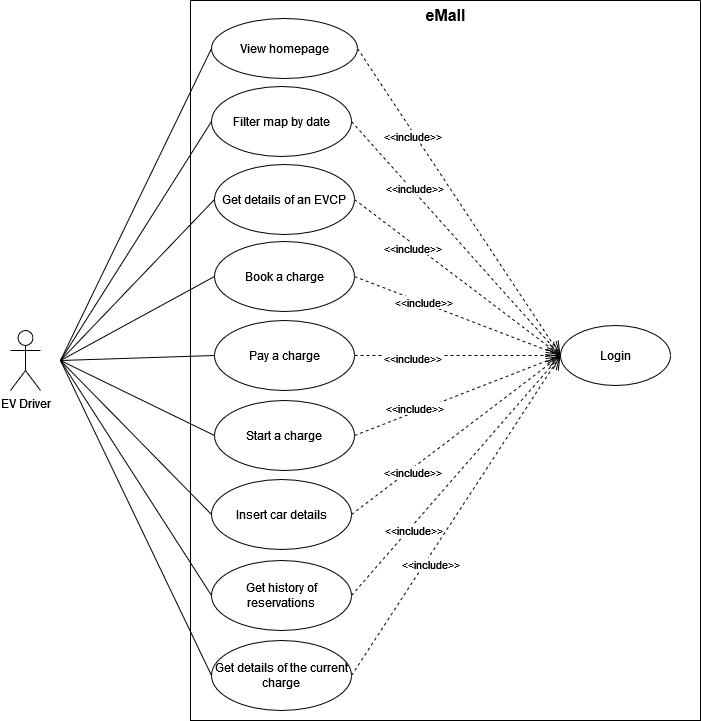
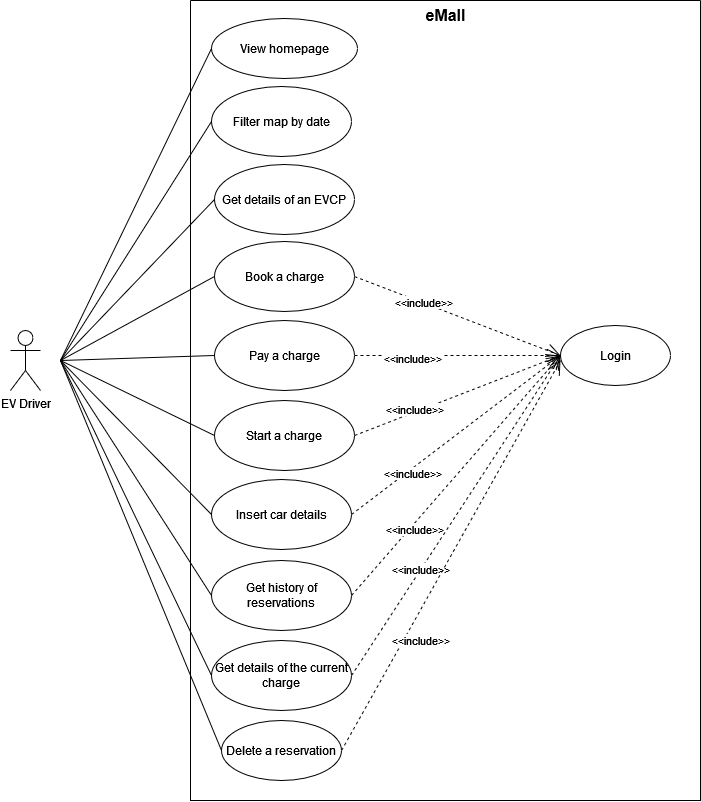
use cases

diff --git a/RASD/section/specific_requirements.tex b/RASD/section/specific_requirements.tex
@@ -42,7 +42,7 @@ Nothing here
 
 \begin{figure}[H]
     \centering
-    \includegraphics[scale=0.6]{src/use_case_diagram/cpo.png}
+    \includegraphics[scale=0.5]{src/use_case_diagram/cpo.png}
 \end{figure}
 
 \begin{figure}[H]
@@ -50,31 +50,176 @@ Nothing here
     \includegraphics[scale=0.6]{src/use_case_diagram/driver.png}
 \end{figure}
 
-\paragraph*{Use Case: EV driver Registration}
-
 \usecase
-{Name}
-{Actor}
-{Entry condition}
+{EV driver registration}
+{EV driver}
+{EV driver clicks 'Sign Up' in the application homepage}
 {
     \begin{enumerate}
-        \item First event flow
-        \item Second event flow etc.
+        \item The system sends user the registration form
+        \item Driver enters name, surname, birth date, telephone number and password. Then submits the data upon reading and accepting the Privacy Policy and the Terms of Service
+        \item The system sends a SMS to driver through an API containing a secret code
+        \item The driver submits the received verification code
+        \item The system verifies the code and displays a success message
     \end{enumerate}
 }
-{Exit condition}
+{A new EV driver account is created}
 {
     \begin{itemize}
-        \item An exception
-        \item Another exception
+        \item A required registration field is missing when the form is submitted
+        \item A wrong verification code is submitted
+        \item The timeout of verification expires
     \end{itemize}
 }
 {
-    Notes: eg. how exception are treated
+    All the exception are treated the same: the system will notify user with a human-readable message and the user is redirected to the homepage
 }
 
-\paragraph*{Use Case: EV driver Login}
-and so on
+\usecase
+{CPO registration} % name
+{CPO} % actor
+{CPO clicks 'Sign Up' in the business dedicated application homepage} % entry condition
+{ % event flow
+    \begin{enumerate}
+        \item The system sends operator the registration form
+        \item Operator enters company name, VAT, IBAN, and password. Then submits the data upon reading and accepting the Privacy Policy and the Terms of Service
+        \item The system processes the provided information and display a success message
+    \end{enumerate}
+}
+{A new operator account is created} % exit condition
+{ % exceptions
+    \begin{itemize}
+        \item A required registration field is missing when the form is submitted
+        \item The operator is not associated to the given VAT
+    \end{itemize}
+}
+{ % notes
+    All the exception are treated the same: the system will notify operator with a human-readable message and the operator is redirected to the homepage
+}
+
+\usecase
+{Check energy in batteries} % name
+{CPO} % actor
+{Authenticated CPO is in "Monitor status of EVCP" tab} % entry condition
+{ % event flow
+    \begin{enumerate}
+        \item The operator choose a specific EVCP and clicks 'check energy in batteries'
+        \item The system shows the battery status of the selected EVCP, if any
+    \end{enumerate}
+}
+{The 'Check energy in batteries' chart is shown} % exit condition
+{ % exceptions
+    \begin{itemize}
+        \item ...
+    \end{itemize}
+}
+{ % notes
+    ...
+}
+
+\usecase
+{Monitor specific charging process} % name
+{CPO} % actor
+{Authenticated CPO is in "Monitor status of CP" tab} % entry condition
+{ % event flow
+    \begin{enumerate}
+        \item The operator choose a specific EVCP and clicks "monitor specific charging process"
+        \item The system shows a list of active charging process and ask operator to choose one
+        \item The operator choose a specific active charging process from the list
+        \item The system shows the details of the chosen charging process
+    \end{enumerate}
+}
+{The details of the specific charging process are displayed} % exit condition
+{ % exceptions
+    \begin{itemize}
+        \item ...
+    \end{itemize}
+}
+{ % notes
+...
+}
+
+\usecase
+{Monitor aggregate charging process} % name
+{CPO} % actor
+{Authenticated CPO is in "Monitor status of CP" tab} % entry condition
+{ % event flow
+    \begin{enumerate}
+        \item The operator choose a specific EVCP and clicks "monitor aggregate charging process"
+        \item The system shows a chart with a detailed view of aggregate charging processes
+    \end{enumerate}
+}
+{The aggregate charging process details charts are displayed} % exit condition
+{ % exceptions
+    \begin{itemize}
+        \item ...
+    \end{itemize}
+}
+{ % notes
+...
+}
+
+\usecase
+{View historical reservations} % name
+{CPO} % actor
+{Authenticated CPO is in "View reservations" tab} % entry condition
+{ % event flow
+    \begin{enumerate}
+        \item The operator choose a specific EVCP, choose "historical reservation" tab, and sets a specific time frame
+        \item The system shows the reservation details of the chosen EVCP during the chosen time frame
+    \end{enumerate}
+}
+{The details of the historical reservations are displayed} % exit condition
+{ % exceptions
+    \begin{itemize}
+        \item ...
+    \end{itemize}
+}
+{ % notes
+...
+}
+
+\usecase
+{View active reservations} % name
+{CPO} % actor
+{Authenticated CPO is in "View reservations" tab} % entry condition
+{ % event flow
+    \begin{enumerate}
+        \item The operator choose a specific EVCP, choose "active reservation" tab
+        \item The system shows a list of active reservation for the chosen EVCP
+    \end{enumerate}
+}
+{The details of the active reservations are displayed} % exit condition
+{ % exceptions
+    \begin{itemize}
+        \item ...
+    \end{itemize}
+}
+{ % notes
+...
+}
+
+\usecase
+{Choose DSO} % name
+{CPO} % actor
+{Authenticated CPO is in "Manage CPs" tab} % entry condition
+{ % event flow
+    \begin{enumerate}
+        \item The operator choose a specific EVCP, choose "Choose DSO" tab
+        \item The system provides a list of available DSOs
+        \item The operator select one DSO among the available ones and submit their choice to the system
+        \item The system shows a list of active reservation for the chosen EVCP
+    \end{enumerate}
+}
+{The details of the active reservations are displayed} % exit condition
+{ % exceptions
+    \begin{itemize}
+        \item ...
+    \end{itemize}
+}
+{ % notes
+...
+}
 
 \subsection{Functional Requirements}
 

diff --git a/RASD/section/introduction.tex b/RASD/section/introduction.tex
@@ -83,9 +83,9 @@ DSOs and to decide in an automated way where to get energy for charging.
 
 \subsection{Definitions, Acronyms, Abbreviations}
 \subsubsection*{Definitions}
-A list of definitions (if present)
+Here we define what is a EVCP (electric vehicle charging pool), that CP and EVSE are synonyms and we define them and so on
 \begin{itemize}
-    \item 1
+    \item EVCP - Electric Vehicle Charging Pool
 \end{itemize}
 \subsubsection*{Acronyms}
 \begin{table}[H]
@@ -98,7 +98,9 @@ A list of definitions (if present)
         \textbf{CPO}   & charging point operator                         \\
         \textbf{DSO}   & distribution system operator                    \\
         \textbf{CPMS}  & charging point management system                \\
-        \textbf{EVSE}  & electric vehicle supply equipment               \\ \bottomrule
+        \textbf{EVSE}  & electric vehicle supply equipment               \\
+        \textbf{CP}    & charging point                                  \\
+        \textbf{EVCP}  & electric vehicle charging pool                  \\ \bottomrule
     \end{tabularx}
 \end{table}
 \subsubsection*{Abbreviation}
